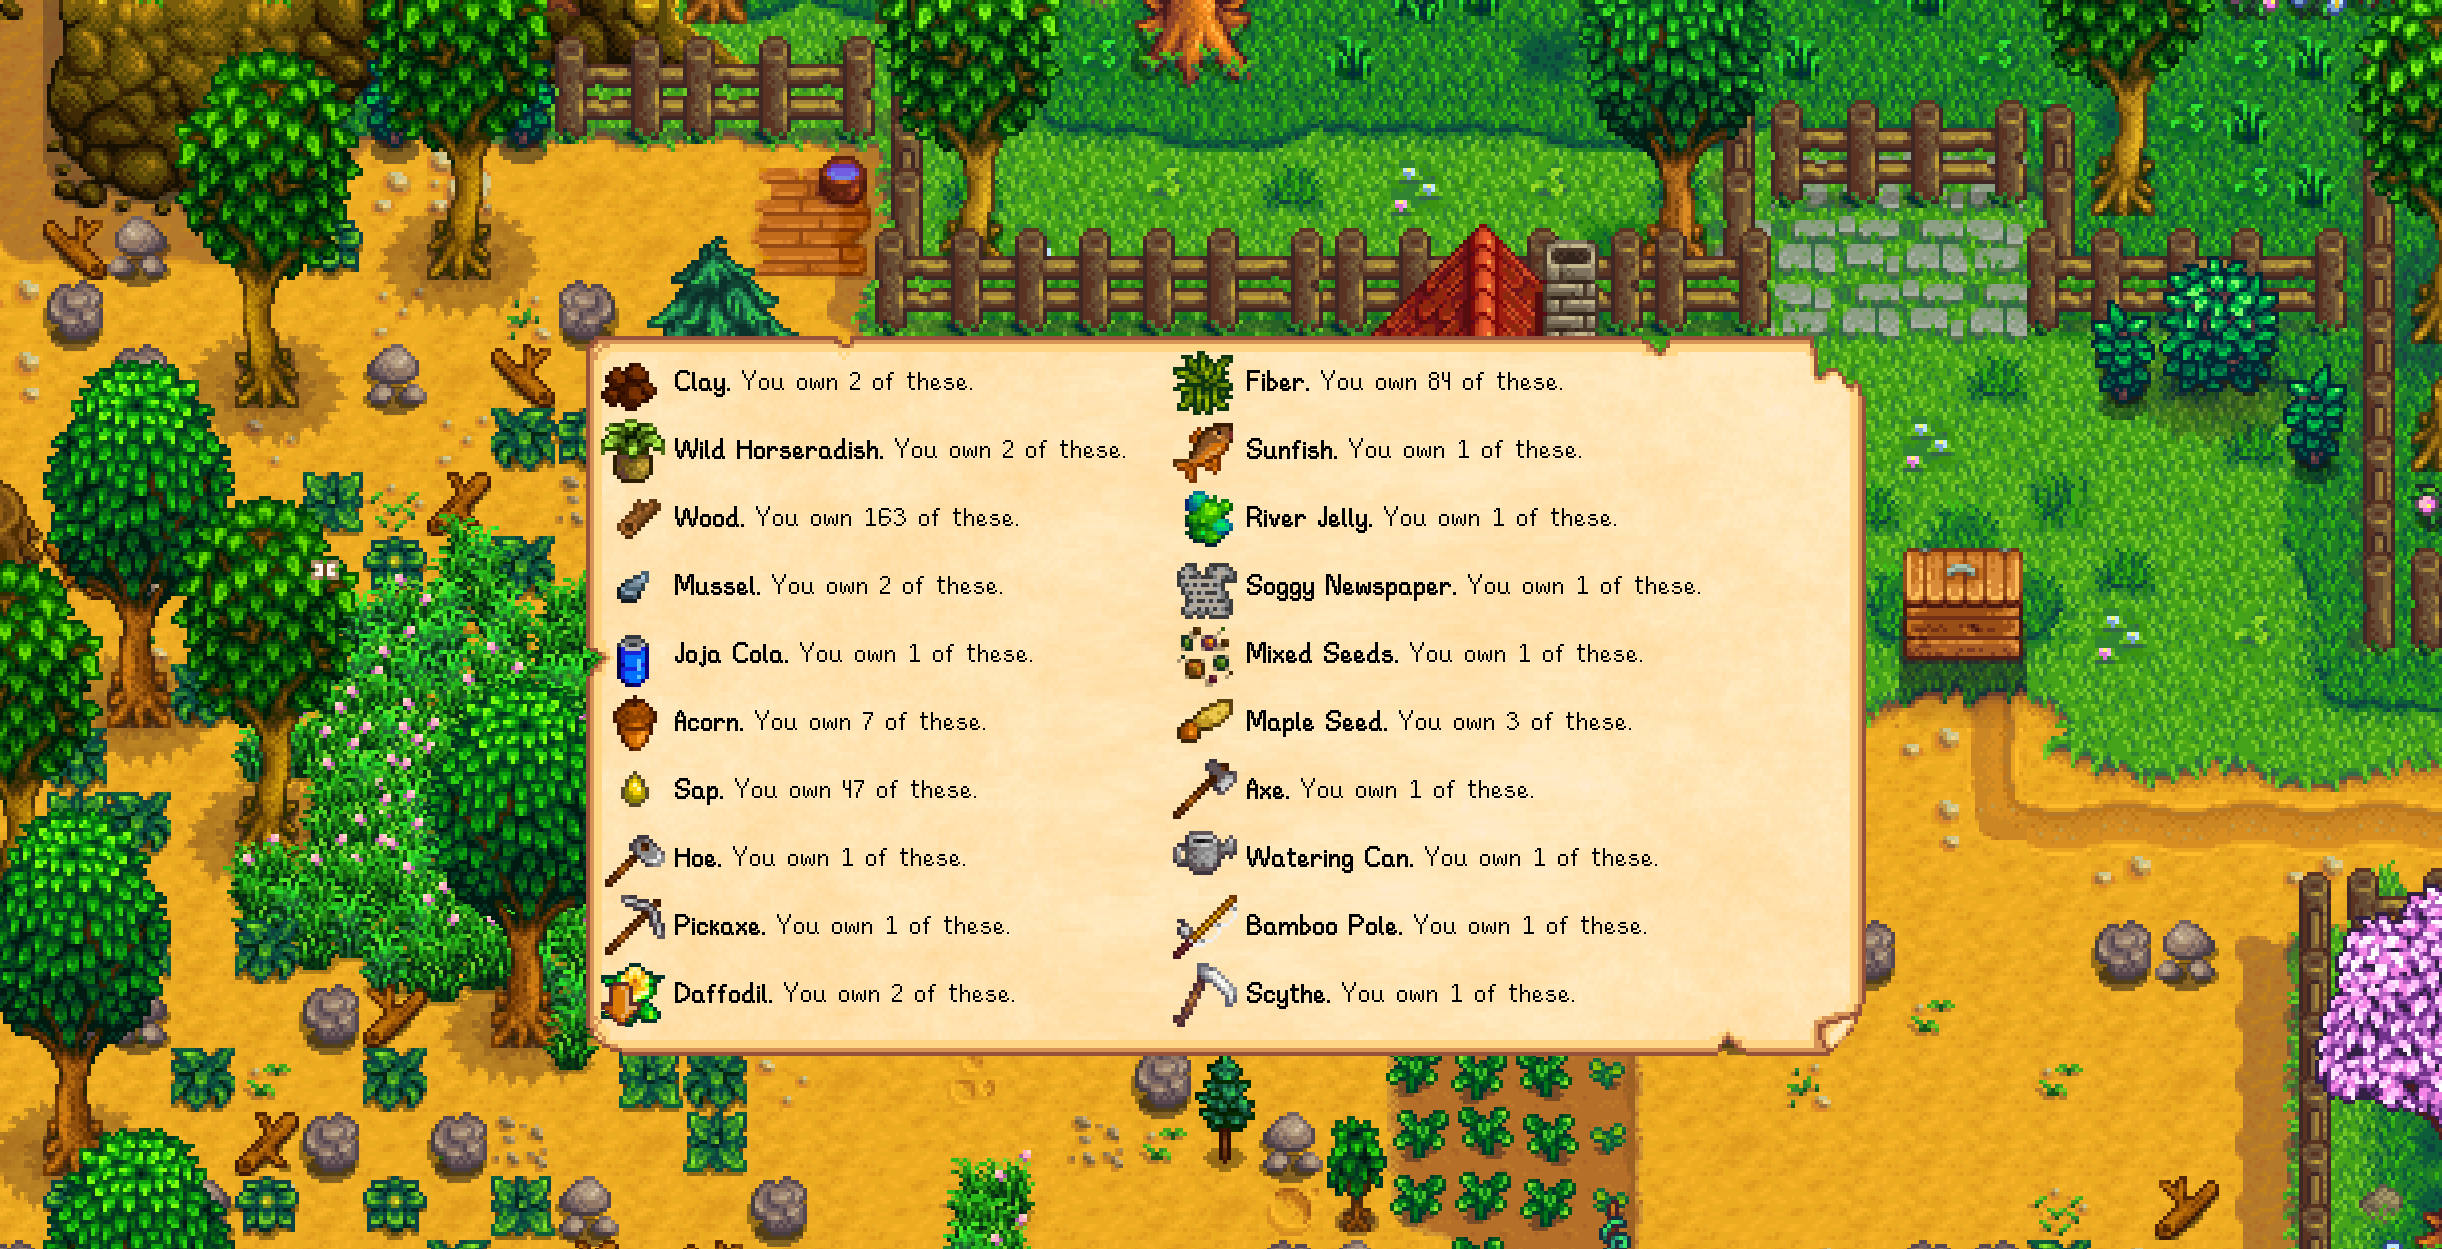
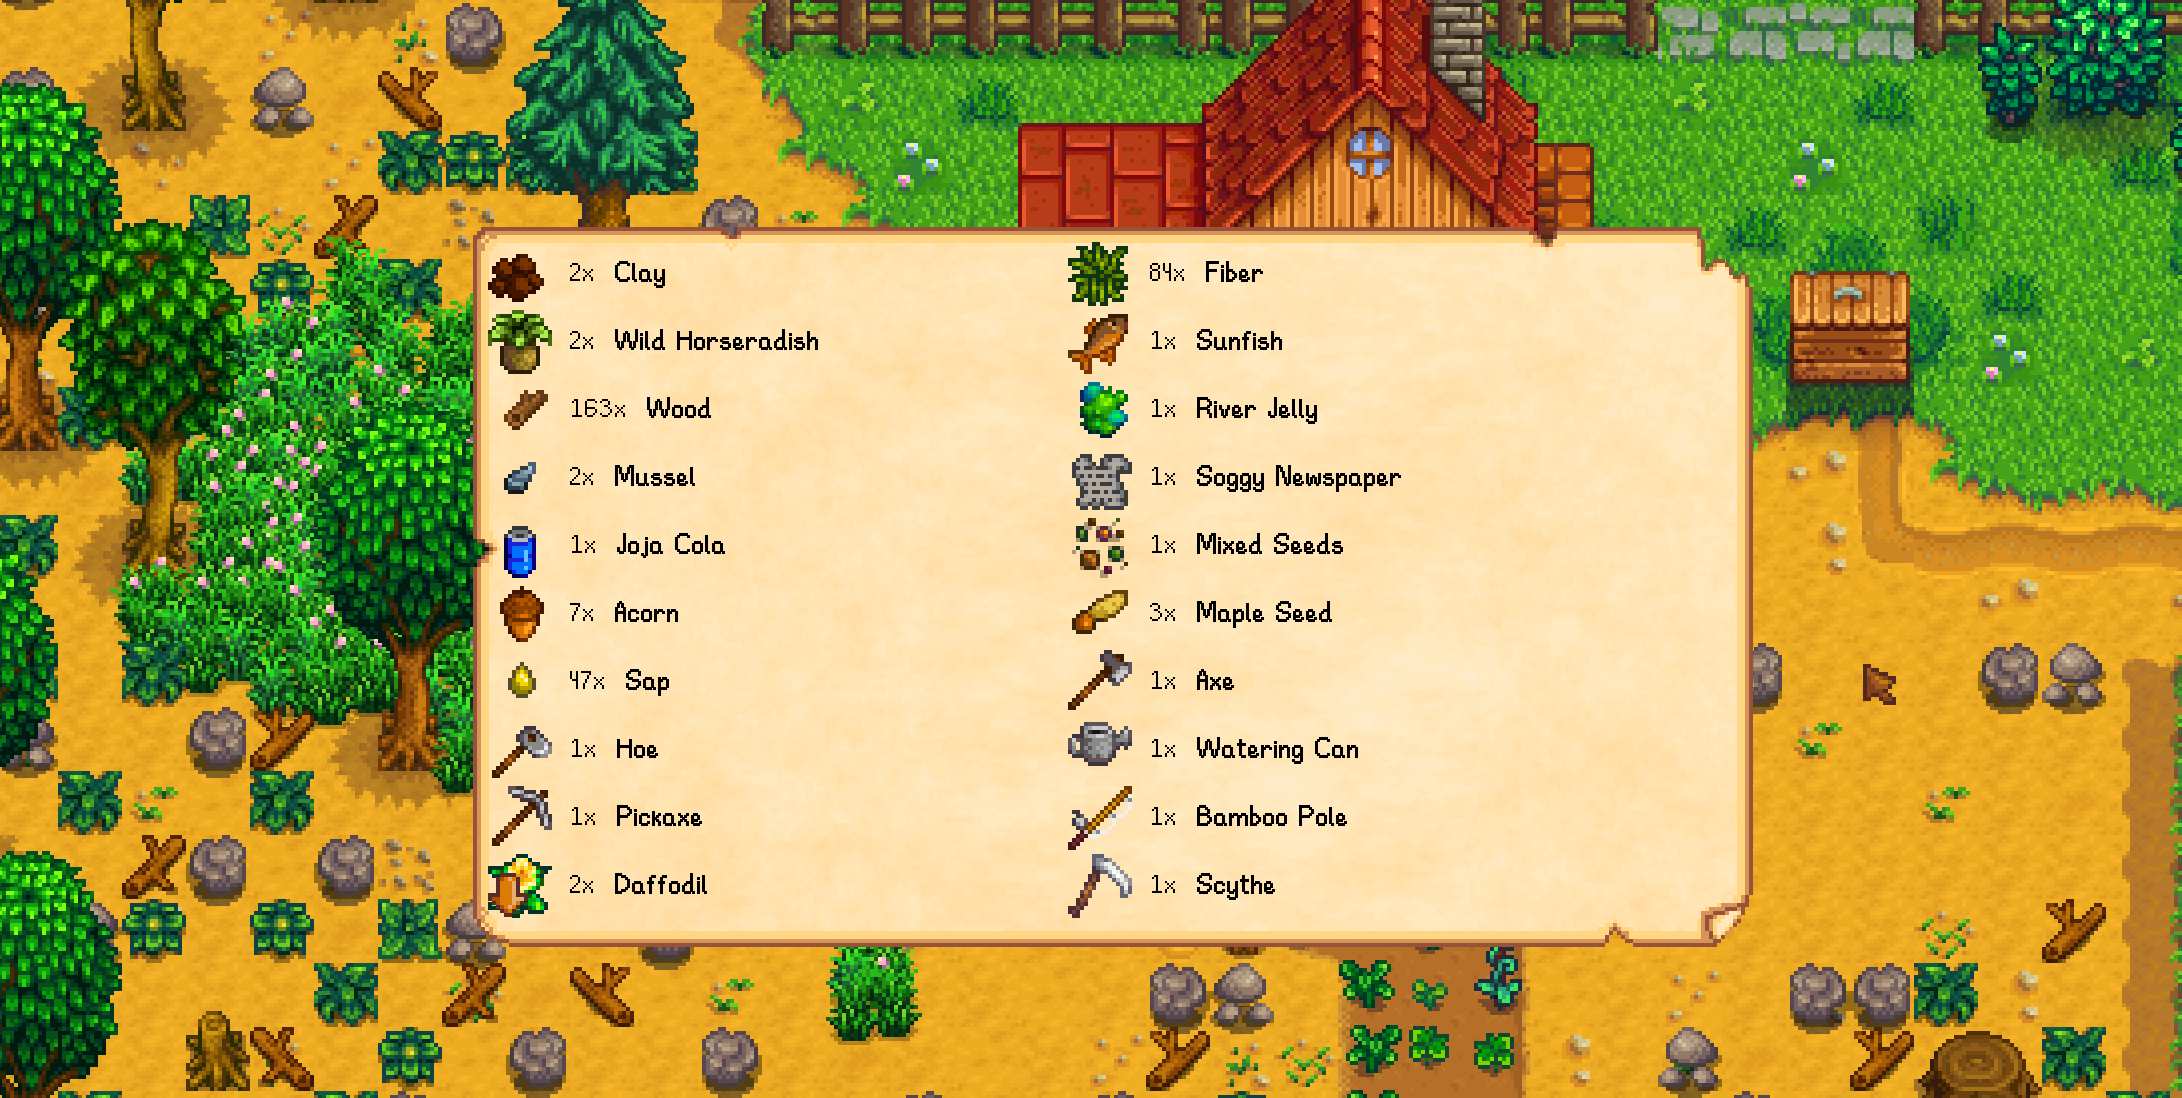
feat: Improved items layout

diff --git a/ProductionStats/Components/ProductionMenu.cs b/ProductionStats/Components/ProductionMenu.cs
@@ -349,30 +349,30 @@ internal class ProductionMenu : BaseMenu, IScrollableMenu, IDisposable
                         color: Color.White,
                         drawShadow: false);
 
-                    leftOffset += 72;
+                    leftOffset += 80;
 
                     float wrapWidth = width - leftOffset - gutter;
 
-                    // draw name & item type
-                    Vector2 nameSize = contentBatch.DrawTextBlock(
-                        font: font,
-                        text: $"{itemStock.Item.Name}.",
-                        position: new Vector2(x + leftOffset, y + topOffset + 15),
-                        wrapWidth: wrapWidth,
-                        bold: Constant.AllowBold);
-
-                    string item = $"You own {itemStock.Count} of these";
-
-                    Vector2 itemCountPosition = new(
-                        x + leftOffset + nameSize.X + spaceWidth,
-                        y + topOffset + 15);
-
+                    // drawing item count
+                    string item = $"{itemStock.Count}x ";
+                    Vector2 itemCountPosition =  new(x + leftOffset, y + topOffset + 15);
                     Vector2 itemCountSize = contentBatch.DrawTextBlock(
                             font: font,
-                            text: $"{item}.",
+                            text: $"{item}",
                             position: itemCountPosition,
                             wrapWidth: wrapWidth);
-
+                    
+                    // drawing item name
+                    Vector2 namePosition = new(
+                        x + leftOffset + itemCountSize.X + spaceWidth,
+                        y + topOffset + 15);
+                    
+                    Vector2 nameSize = contentBatch.DrawTextBlock(
+                        font: font,
+                        text: $"{itemStock.Item.Name}",
+                        position: namePosition,
+                        wrapWidth: wrapWidth,
+                        bold: Constant.AllowBold);
                     // when last item was drawn on the right side,
                     // go to next row below and set column left as current.
                     if (leftSide == false)
